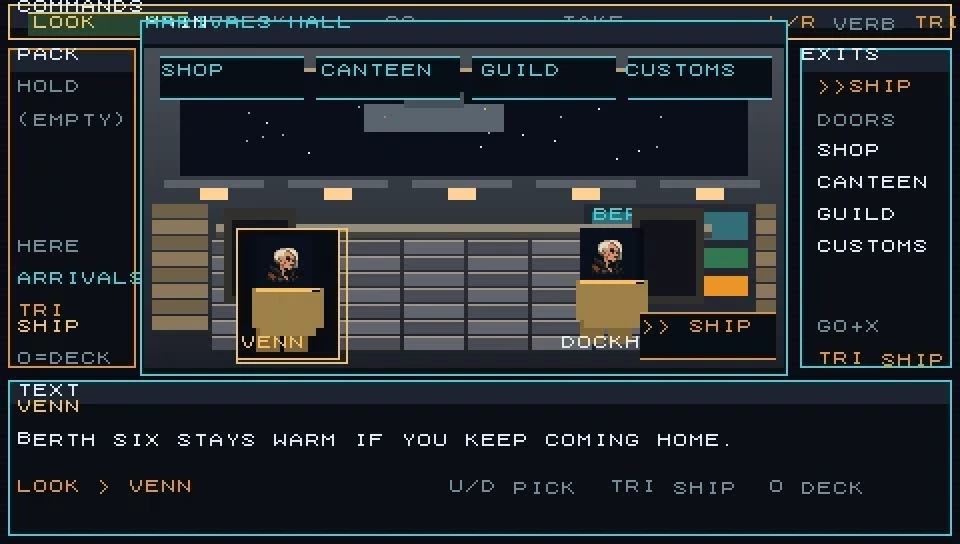
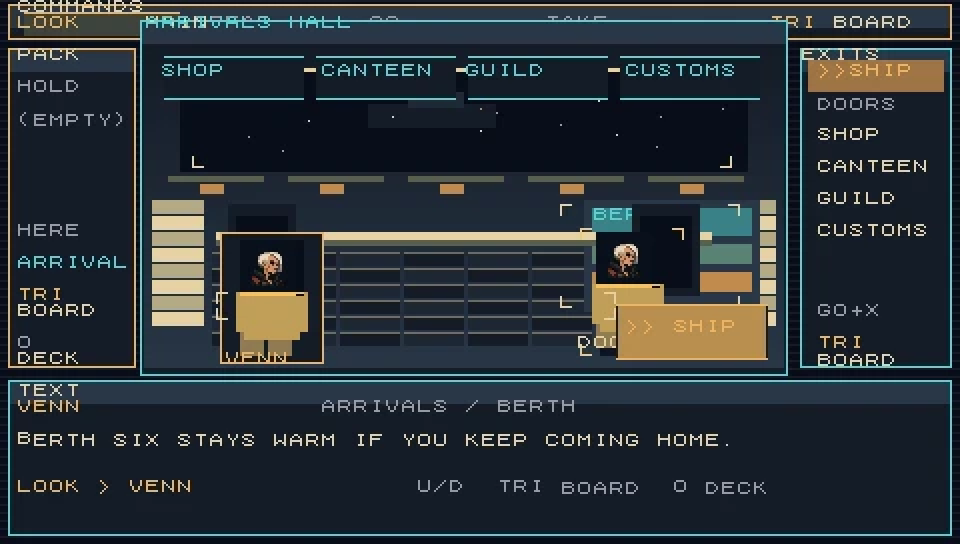
Sync storefront gallery to Gameplay Designer v2.5.39 tip
Pull MacVenture A++ Arrivals/Shop and Open Channel beat captures into
the GitHub gallery, refresh hero/social CTAs, and document the storefront
lane handshake with the Gameplay Designer for future big playable drops.

diff --git a/README.md b/README.md
@@ -17,7 +17,7 @@
 <p align="center">
   <strong>Trade. Explore. Bring someone home.</strong><br>
   Native PSP homebrew inspired by Elite-A — a 256-system galaxy, flight &amp; combat,<br>
-  MacVenture-style station decks, planetary landings, custom radio, and an original campaign.
+  cinematic MacVenture station decks, planetary landings, custom radio, and The Open Channel.
 </p>
 
 <p align="center">
@@ -96,11 +96,11 @@ No tracks are bundled — bring music you have rights to. Restart after adding o
 <p align="center">
   <img src="assets/github/shot-flight.png" alt="Cockpit approach to Lave System Hub" width="440">
   &nbsp;
-  <img src="assets/github/shot-station.png" alt="Station Arrivals — MacVenture deck with Venn" width="440">
+  <img src="assets/github/shot-station.png" alt="Station Arrivals — MacVenture A++ berth with Venn" width="440">
 </p>
 
 <p align="center">
-  <img src="assets/github/shot-station-shop.png" alt="Station Chandlery / shop" width="440">
+  <img src="assets/github/shot-station-shop.png" alt="Chandlery — MacVenture shop with ledger" width="440">
   &nbsp;
   <img src="assets/github/shot-station-canteen.png" alt="Station Canteen" width="440">
 </p>
@@ -108,7 +108,7 @@ No tracks are bundled — bring music you have rights to. Restart after adding o
 <p align="center">
   <img src="assets/github/shot-station-guild.png" alt="Station Guild" width="440">
   &nbsp;
-  <img src="assets/github/shot-story.png" alt="Open Channel campaign dialogue with Kei" width="440">
+  <img src="assets/github/shot-story.png" alt="Open Channel — Kei conversation beat 1/8" width="440">
 </p>
 
 ---
@@ -118,9 +118,9 @@ No tracks are bundled — bring music you have rights to. Restart after adding o
 | | |
 | --- | --- |
 | **Open galaxy** | 256 seeded systems — hubs, relays, markets, danger, multi-jump routes |
-| **The Open Channel** | Original Kei &amp; Ryn campaign — travel, survey, salvage, conflict, lasting choices |
+| **The Open Channel** | Original Kei &amp; Ryn campaign — beat-based dialogue, tracked missions, lasting choices |
 | **Flight &amp; combat** | Targeting computer, missiles, police, freighters, mining belts |
-| **Station decks** | MacVenture-style rooms (Arrivals, Shop, Canteen, Guild…) with LOOK / SPEAK / GO |
+| **Station decks** | MacVenture rooms with hero focal props, LOOK / SPEAK / GO / TAKE, clear SHIP return |
 | **Worlds** | Planetary approach, EVA walks, landing pads |
 | **Commander life** | Missions, GalNet, SpaceBook, outfitting, wanted levels, save/load |
 | **Radio** | Five custom stations + procedural fallback when a folder is empty |

diff --git a/docs/GITHUB-STOREFRONT.md b/docs/GITHUB-STOREFRONT.md
@@ -2,6 +2,17 @@
 
 The root `README.md` is the **player-facing download page**. Keep it download-first: hero, release CTA, install steps, screenshots, short feature list. Do not dump changelogs there — use `CHANGELOG.md` and `docs/DEVELOPMENT-HISTORY.md`.
 
+## Lane
+
+This surface is **presentation only** (README, `assets/github/`, release-facing install clarity, About checklist).
+
+| Role | Agent | Relationship |
+| --- | --- | --- |
+| **Gameplay Designer** | `bc-dde672be-41ff-5ac6-8c12-c5aeee2efe9e` | Owns FUN playable systems. When a **big playable drop** lands (Release / substantial PR tip), refresh gallery + CTA copy from their player-visible features and captures. |
+| Story / Art / Systems | other lanes | Do not rewrite their prose or art kits here — only showcase shipped play. |
+
+Cadence: **big releases only** for tags. Storefront still always points at `releases/latest`; update screenshots when that tip’s playable features change.
+
 ## Assets
 
 Images live in `assets/github/`:
@@ -17,7 +28,13 @@ Images live in `assets/github/`:
 | `shot-story.png` | Campaign dialogue |
 | `shot-galnet.png` | GalNet board |
 
-Prefer **native 480×272** captures when available (see project store `media/macventure/` and `media/screenshots/`).
+Prefer **native 480×272** captures when available. Current tip sources:
+
+- `media/macventure/station-mv36-*.webp` — MacVenture A++ (matches Latest playable tip)
+- `media/open-channel-*-beat-*.png` — Open Channel dialogue
+- `media/screenshots/01-title-screen.png` — title
+
+After the next Gameplay Designer big drop, re-pull their newest captures before merging storefront updates.
 
 ## Human checklist after merge
 
